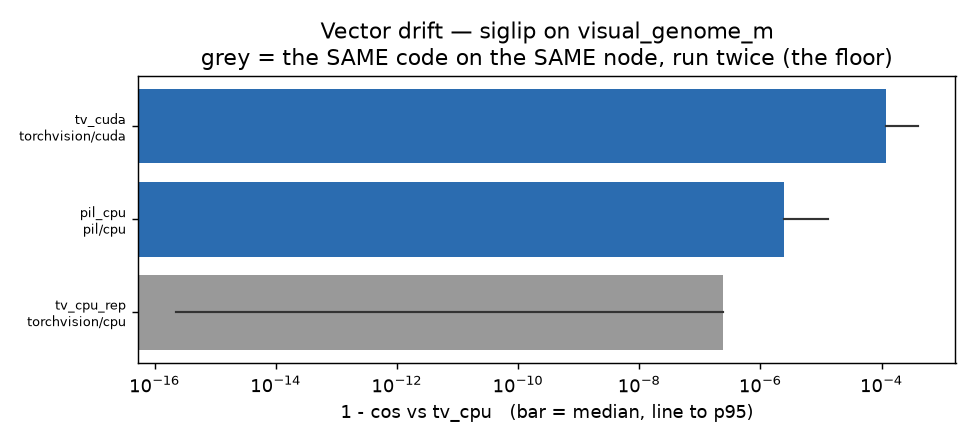
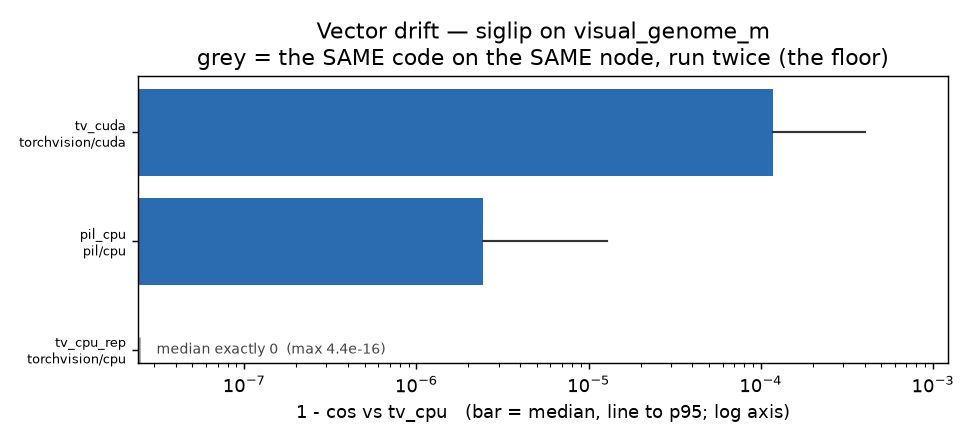
#3146: the repeat arm is bit-identical, so the benchmark needs no floor arm
Checked rather than inferred: the reference arm and its repeat produce
bit-identical stored float32 vectors on both embedders, all 4193 rows. The
4.4e-16 reported as the floor's 'max drift' is float64 arithmetic inside the
analyser, not a difference in the data.

That is why there is no fourth benchmark arm. The calibration harness is
deterministic given the vectors and seed, and the arms are paired on identical
categories, seeds and splits, so a bench run on bit-identical vectors returns
the reference's numbers exactly. The floor is zero by construction; 96 cells
spent observing it would buy nothing.

Also embeds the corrected drift figures with a caption that says why the floor
arm has no bar.

diff --git a/docs/experiments/fastproc-3146/REPORT.md b/docs/experiments/fastproc-3146/REPORT.md
@@ -84,9 +84,17 @@ unasserted-premise failure of #2877.
 **The node is pinned, not the GPU type.** #3160 established that `gres/gpu:v100`
 is two different devices and that the swap alone moves `siglip2_l` fp32 by
 1.5e-04 — the size of the effects measured here. `tv_cpu_rep` is what proves the
-pinning worked, and it came out at **exactly 0** median `1 − cos` (max 4.4e-16,
-pure float64 normalisation noise). The pipeline is deterministic on one node, so
-every number below is treatment rather than noise.
+pinning worked, and it is stronger than "close": the two arms' stored float32
+vectors are **bit-identical**, all 4193 × 768 and 4193 × 1152 of them, on both
+embedders. The 4.4e-16 that appears as its "max drift" below is float64
+arithmetic inside the analyser, not a difference in the data.
+
+That has a practical consequence worth stating, because it is the reason there
+is no fourth benchmark arm: the calibration harness is deterministic given the
+vectors and the seed, and the arms are paired on identical categories, seeds and
+splits, so a benchmark run on bit-identical vectors would return the reference's
+numbers exactly. The benchmark's floor is zero **by construction** rather than
+by measurement, and spending 96 cells to observe that would buy nothing.
 
 **Every arm asserts its own premise.** transformers *warns and continues* when a
 backend is unavailable rather than raising, so the default outcome of an
@@ -204,6 +212,18 @@ Every arm against the shipped path, paired by media id, 4193 medias:
 **The two models invert.** PIL costs `siglip2_l` 1.5e-04 and `siglip` only
 2.4e-06; CUDA costs `siglip` 1.2e-04 and `siglip2_l` only 5.4e-08. A headline
 quoted from either model alone is wrong for the other. §4 explains the mechanism.
+
+![Vector drift by arm, siglip](figures/drift_siglip.png)
+
+![Vector drift by arm, siglip2_l](figures/drift_siglip2_l.png)
+
+*Bar is the median `1 − cos` against the shipped path, line runs to the p95, log
+axis. The floor arm has **no bar** on purpose: its median is exactly zero, and an
+earlier version of this figure substituted a small epsilon so a bar could be
+drawn, which rendered the zero floor at ~5e-07 — visually the same order as
+`pil_cpu`'s real 2.4e-06, and precisely backwards. A log axis cannot show zero;
+saying so is better than drawing a value that does not exist. Note the axes
+differ between the two panels, so compare within a panel, not across.*
 
 A control worth stating because it could have gone the other way: the **text
 tower is untouched** — the maximum absolute difference between any two arms'
